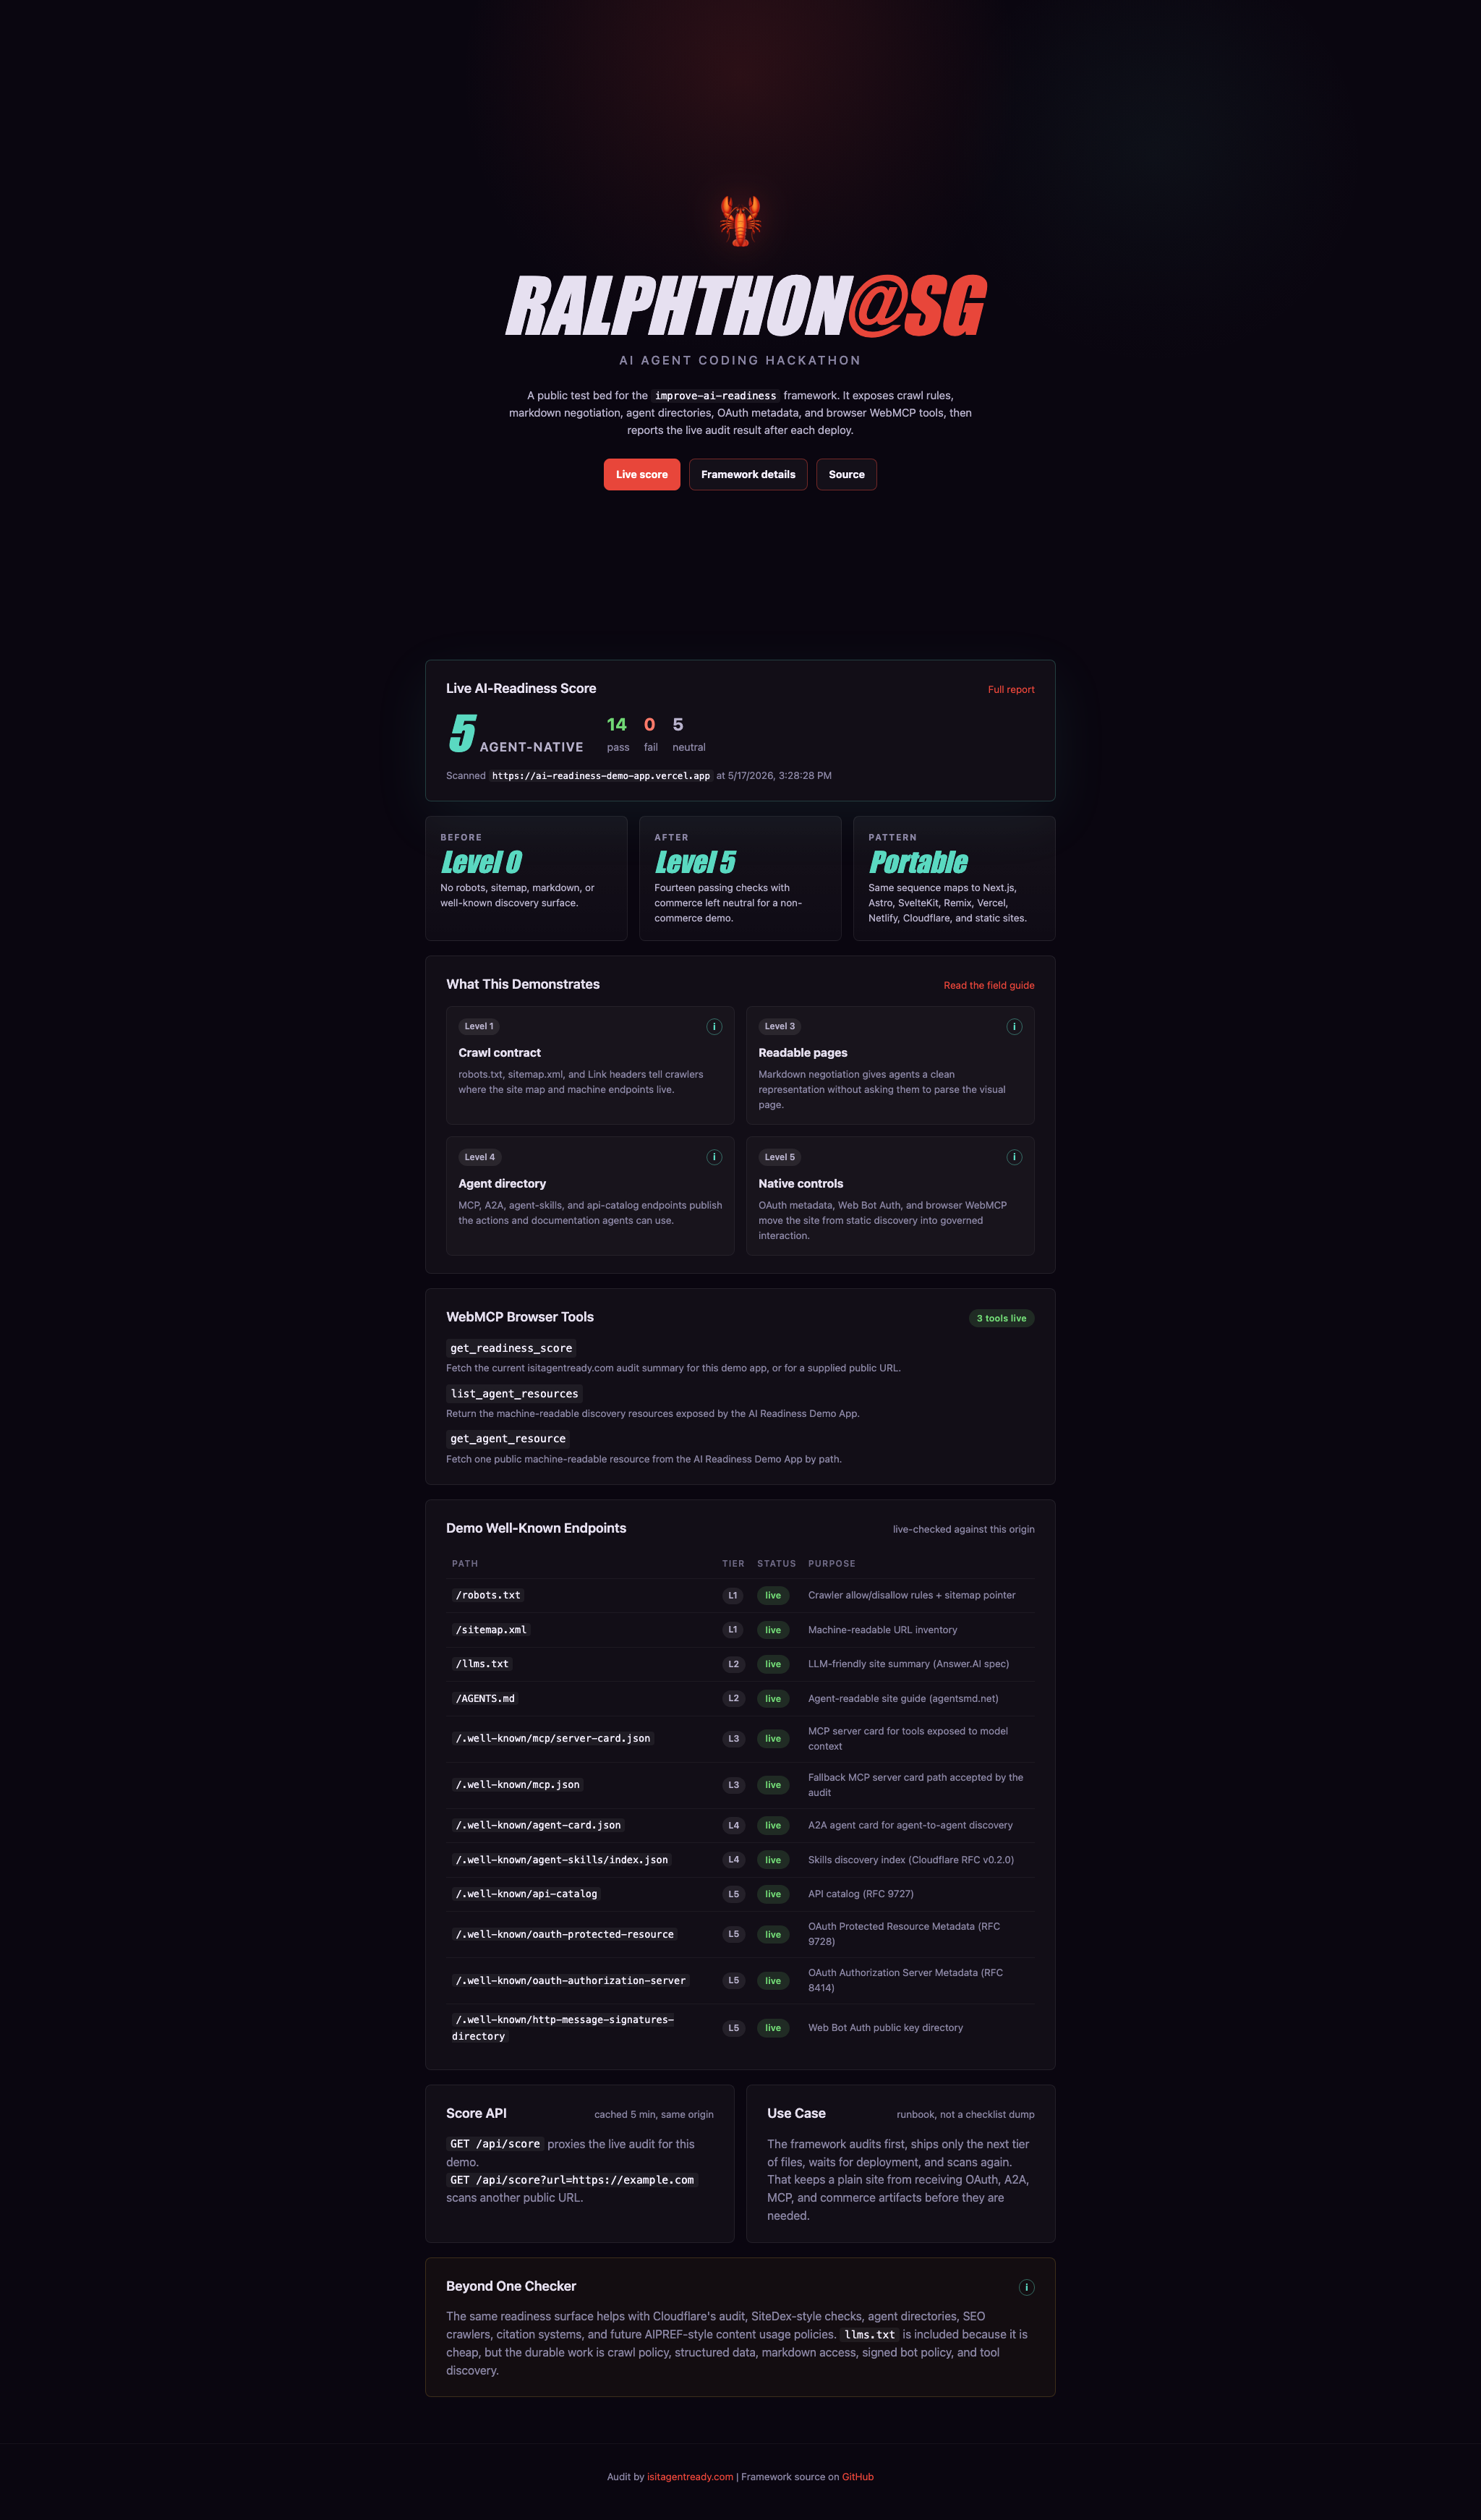
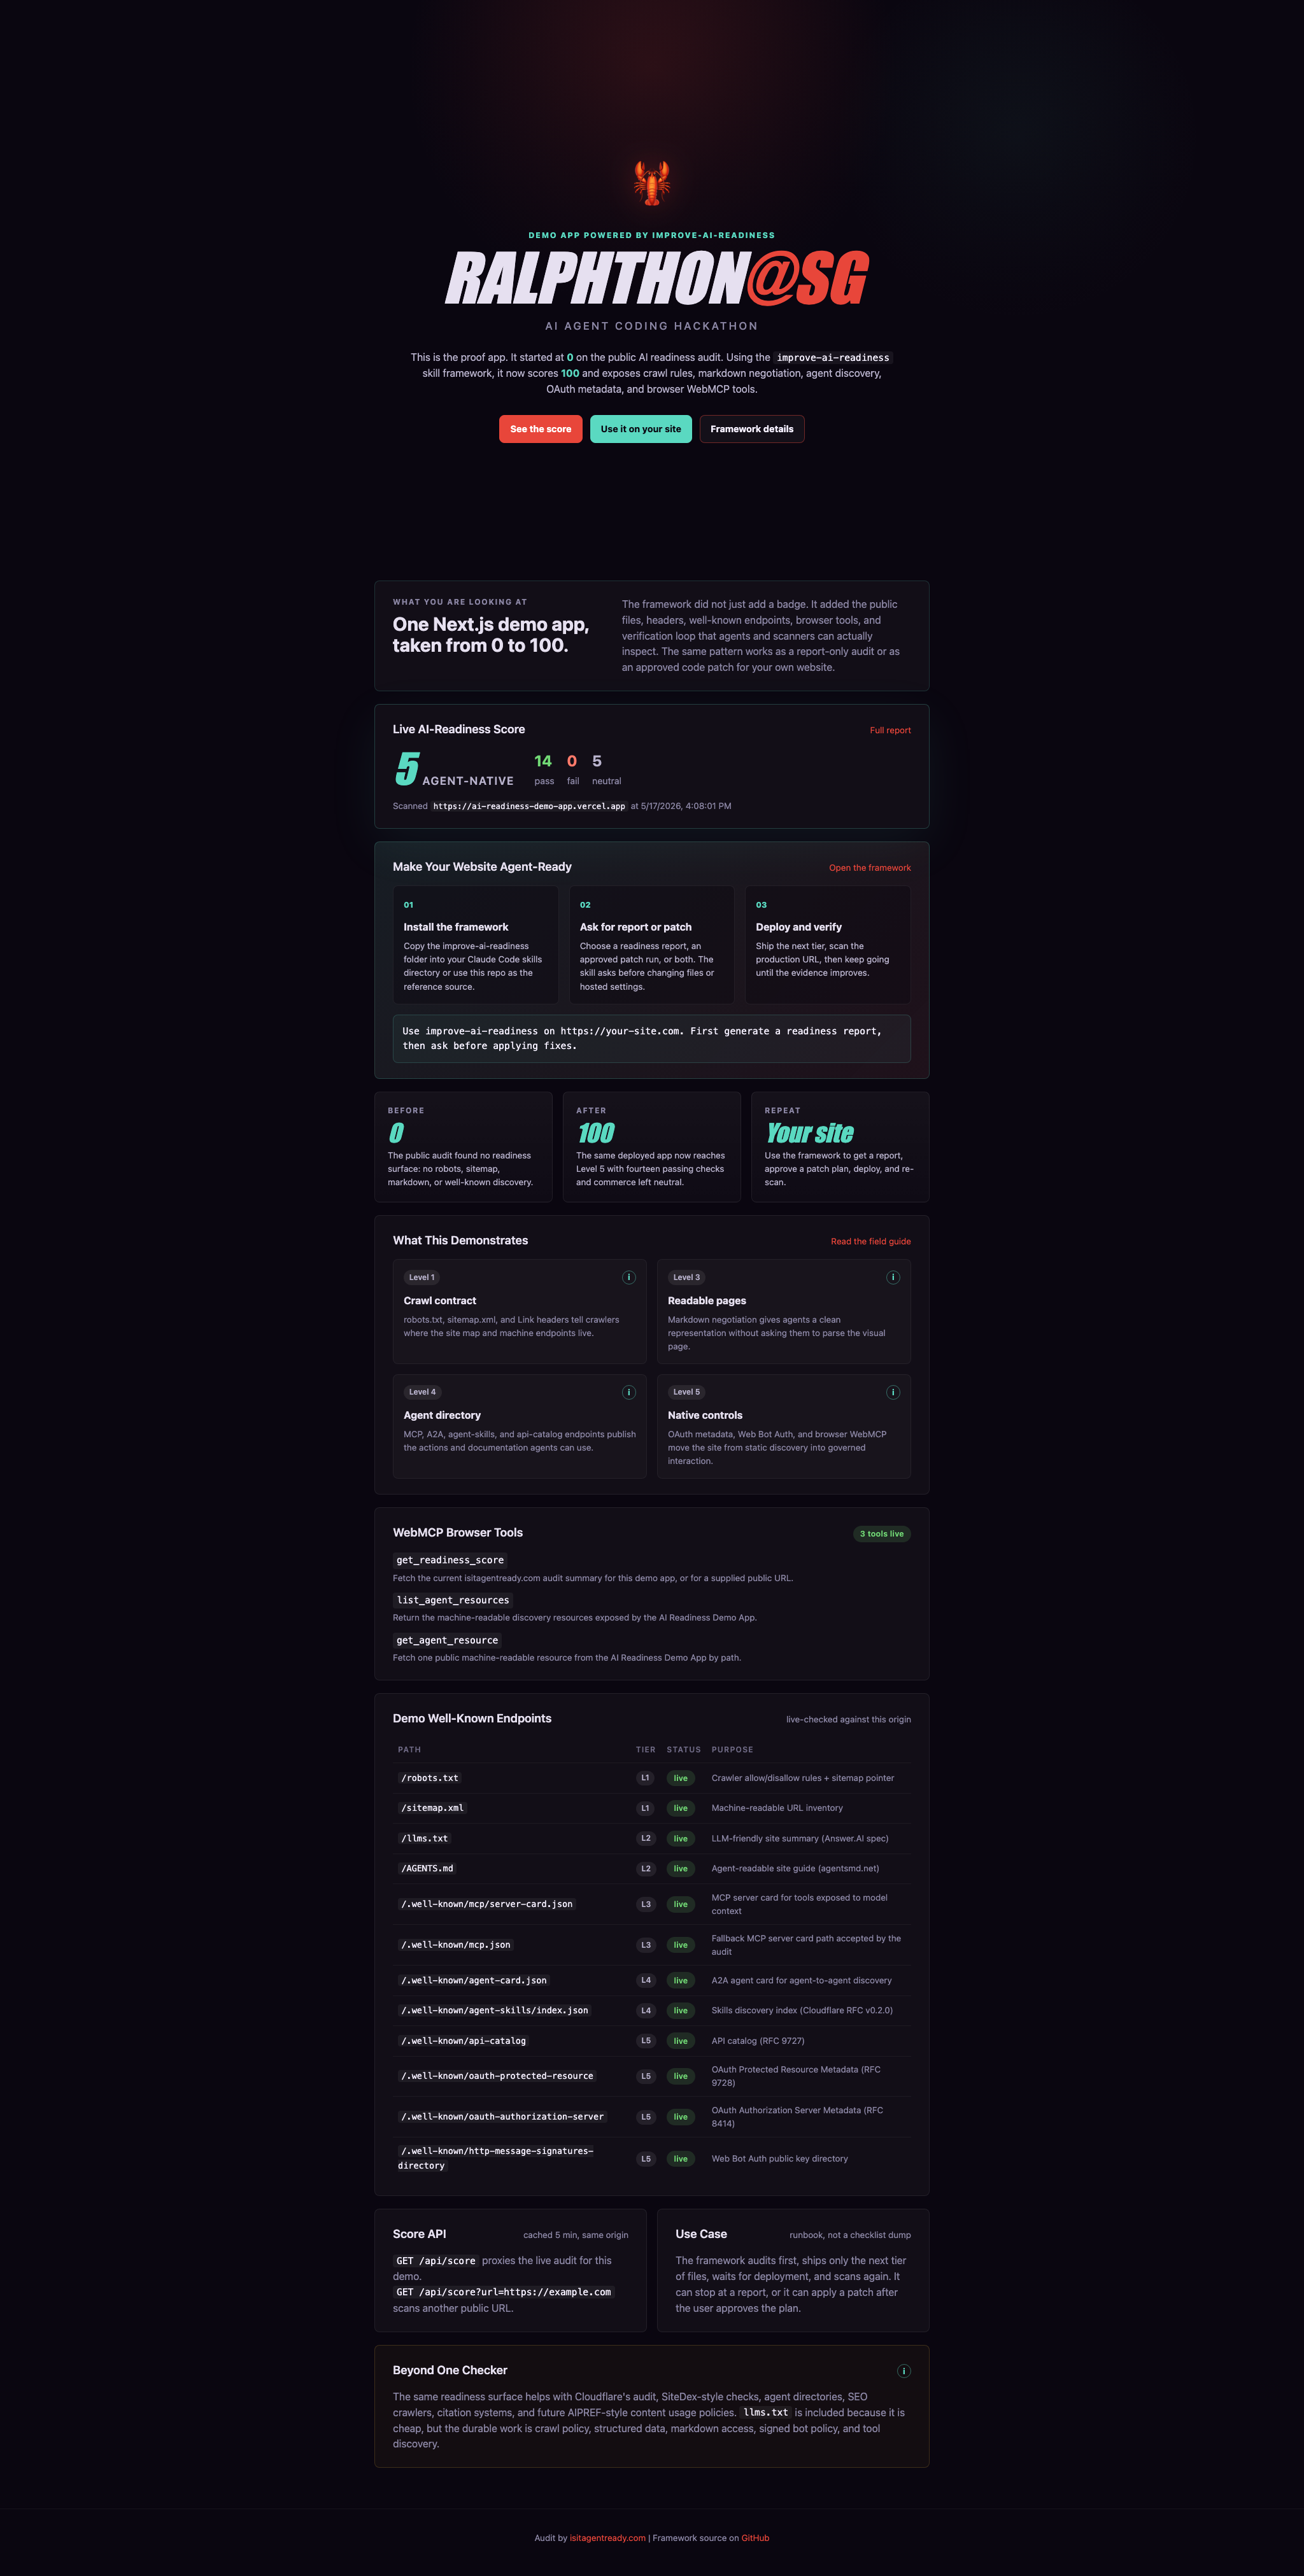
feat: clarify demo app conversion path

Changed region(s): [[0.2812, 0.062, 0.6875, 0.961], [0.4688, 0.217, 0.6875, 0.279], [0.6562, 0.589, 0.6875, 0.62]]

diff --git a/example-web-app/styles/globals.css b/example-web-app/styles/globals.css
@@ -50,6 +50,15 @@ a:hover {
   filter: drop-shadow(0 0 24px rgba(232, 70, 58, 0.35));
 }
 
+.hero-kicker {
+  margin-bottom: 0.75rem;
+  color: #5ad9c1;
+  font-size: 0.78rem;
+  font-weight: 800;
+  letter-spacing: 0.14em;
+  text-transform: uppercase;
+}
+
 .title {
   font-family: 'Impact', 'Arial Black', system-ui, sans-serif;
   font-size: 6.4rem;
@@ -75,9 +84,13 @@ a:hover {
 }
 
 .hero-blurb {
-  max-width: 640px;
+  max-width: 760px;
   color: #b8b2cc;
-  font-size: 0.95rem;
+  font-size: 1rem;
+}
+
+.hero-blurb strong {
+  color: #5ad9c1;
 }
 
 .hero-actions {
@@ -113,6 +126,12 @@ a:hover {
   color: #ffffff;
 }
 
+.button--primary-alt {
+  background: #5ad9c1;
+  border-color: #5ad9c1;
+  color: #0a0610;
+}
+
 .content {
   max-width: 920px;
   margin: 0 auto;
@@ -136,6 +155,20 @@ a:hover {
 .card--accent {
   border-color: rgba(90, 217, 193, 0.24);
   box-shadow: 0 24px 80px rgba(90, 217, 193, 0.08);
+}
+
+.intro-card {
+  display: grid;
+  grid-template-columns: 0.85fr 1.15fr;
+  gap: 1.5rem;
+  align-items: start;
+  border-color: rgba(90, 217, 193, 0.18);
+}
+
+.intro-card h2 {
+  margin-top: 0.45rem;
+  font-size: 1.85rem;
+  line-height: 1.12;
 }
 
 .card-header {
@@ -408,6 +441,60 @@ a:hover {
   color: #b8b2cc;
 }
 
+.cta-card {
+  background:
+    linear-gradient(135deg, rgba(90, 217, 193, 0.08), rgba(232, 70, 58, 0.06)),
+    rgba(255, 255, 255, 0.03);
+  border-color: rgba(90, 217, 193, 0.22);
+}
+
+.cta-steps {
+  display: grid;
+  grid-template-columns: repeat(3, minmax(0, 1fr));
+  gap: 1rem;
+}
+
+.cta-step {
+  padding: 1rem;
+  min-height: 10.5rem;
+  border: 1px solid rgba(255, 255, 255, 0.07);
+  border-radius: 8px;
+  background: rgba(10, 6, 16, 0.45);
+}
+
+.cta-step span {
+  display: inline-flex;
+  margin-bottom: 0.75rem;
+  color: #5ad9c1;
+  font-size: 0.78rem;
+  font-weight: 800;
+}
+
+.cta-step h3 {
+  margin-bottom: 0.45rem;
+  font-size: 1rem;
+}
+
+.cta-step p {
+  color: #b8b2cc;
+  font-size: 0.86rem;
+}
+
+.prompt-strip {
+  margin-top: 1rem;
+  padding: 0.9rem;
+  border: 1px solid rgba(90, 217, 193, 0.2);
+  border-radius: 8px;
+  background: rgba(90, 217, 193, 0.05);
+}
+
+.prompt-strip code {
+  display: block;
+  background: transparent;
+  padding: 0;
+  white-space: normal;
+}
+
 .pill {
   display: inline-block;
   padding: 0.2rem 0.7rem;
@@ -530,9 +617,11 @@ a:hover {
 
   .journey-grid,
   .split-grid,
+  .cta-steps,
   .layer-grid,
   .research-grid,
-  .statement-grid {
+  .statement-grid,
+  .intro-card {
     grid-template-columns: 1fr;
   }
 

diff --git a/example-web-app/pages/index.js b/example-web-app/pages/index.js
@@ -99,14 +99,32 @@ const STACK_LAYERS = [
     name: 'Native controls',
     status: 'Level 5',
     text: 'OAuth metadata, Web Bot Auth, and browser WebMCP move the site from static discovery into governed interaction.',
-    tip: 'Do not fake commerce or payment protocols on non-commerce sites. The checker treats them as neutral.',
+    tip: 'Do not add commerce or payment protocols on non-commerce sites. The checker treats them as neutral.',
   },
 ];
 
 const JOURNEY = [
-  ['Before', 'Level 0', 'No robots, sitemap, markdown, or well-known discovery surface.'],
-  ['After', 'Level 5', 'Fourteen passing checks with commerce left neutral for a non-commerce demo.'],
-  ['Pattern', 'Portable', 'Same sequence maps to Next.js, Astro, SvelteKit, Remix, Vercel, Netlify, Cloudflare, and static sites.'],
+  ['Before', '0', 'The public audit found no readiness surface: no robots, sitemap, markdown, or well-known discovery.'],
+  ['After', '100', 'The same deployed app now reaches Level 5 with fourteen passing checks and commerce left neutral.'],
+  ['Repeat', 'Your site', 'Use the framework to get a report, approve a patch plan, deploy, and re-scan.'],
+];
+
+const CTA_STEPS = [
+  {
+    number: '01',
+    title: 'Install the framework',
+    text: 'Copy the improve-ai-readiness folder into your Claude Code skills directory or use this repo as the reference source.',
+  },
+  {
+    number: '02',
+    title: 'Ask for report or patch',
+    text: 'Choose a readiness report, an approved patch run, or both. The skill asks before changing files or hosted settings.',
+  },
+  {
+    number: '03',
+    title: 'Deploy and verify',
+    text: 'Ship the next tier, scan the production URL, then keep going until the evidence improves.',
+  },
 ];
 
 function matchesExpectedType(contentType, expects) {
@@ -243,40 +261,55 @@ export default function Home() {
         <title>Ralphthon@SG | AI Readiness Demo</title>
         <meta
           name="description"
-          content="Live test bed showing how a public website moves from Level 0 to Level 5 on agent readiness checks."
+          content="Demo app showing how the improve-ai-readiness framework moved a public website from 0 to 100 on agent readiness checks."
         />
       </Head>
 
       <header className="hero">
         <div className="hero-mascot" aria-hidden="true">🦞</div>
+        <p className="hero-kicker">Demo app powered by improve-ai-readiness</p>
         <h1 className="title">
           RALPHTHON<span className="title-accent">@SG</span>
         </h1>
         <p className="subtitle">AI Agent Coding Hackathon</p>
         <p className="hero-blurb">
-          A public test bed for the <code>improve-ai-readiness</code> framework. It exposes
-          crawl rules, markdown negotiation, agent directories, OAuth metadata, and browser
-          WebMCP tools, then reports the live audit result after each deploy.
+          This is the proof app. It started at <strong>0</strong> on the public AI readiness
+          audit. Using the <code>improve-ai-readiness</code> skill framework, it now scores{' '}
+          <strong>100</strong> and exposes crawl rules, markdown negotiation, agent discovery,
+          OAuth metadata, and browser WebMCP tools.
         </p>
         <nav className="hero-actions" aria-label="Demo links">
           <a className="button button--primary" href="#live-score">
-            Live score
-          </a>
-          <a className="button" href="/details">
-            Framework details
+            See the score
           </a>
           <a
-            className="button"
+            className="button button--primary-alt"
             href="https://github.com/mynk-s-rwt/improve-ai-readiness"
             target="_blank"
             rel="noreferrer"
           >
-            Source
+            Use it on your site
+          </a>
+          <a className="button" href="/details">
+            Framework details
           </a>
         </nav>
       </header>
 
       <main className="content">
+        <section className="card intro-card">
+          <div>
+            <span className="eyebrow">What you are looking at</span>
+            <h2>One Next.js demo app, taken from 0 to 100.</h2>
+          </div>
+          <p className="muted">
+            The framework did not just add a badge. It added the public files, headers,
+            well-known endpoints, browser tools, and verification loop that agents and scanners
+            can actually inspect. The same pattern works as a report-only audit or as an approved
+            code patch for your own website.
+          </p>
+        </section>
+
         <section className="card card--accent" id="live-score">
           <div className="card-header">
             <h2>Live AI-Readiness Score</h2>
@@ -348,6 +381,35 @@ export default function Home() {
               </p>
             </>
           )}
+        </section>
+
+        <section className="card cta-card">
+          <div className="card-header">
+            <h2>Make Your Website Agent-Ready</h2>
+            <a
+              className="card-link"
+              href="https://github.com/mynk-s-rwt/improve-ai-readiness"
+              target="_blank"
+              rel="noreferrer"
+            >
+              Open the framework
+            </a>
+          </div>
+          <div className="cta-steps">
+            {CTA_STEPS.map((step) => (
+              <article className="cta-step" key={step.number}>
+                <span>{step.number}</span>
+                <h3>{step.title}</h3>
+                <p>{step.text}</p>
+              </article>
+            ))}
+          </div>
+          <div className="prompt-strip">
+            <code>
+              Use improve-ai-readiness on https://your-site.com. First generate a readiness
+              report, then ask before applying fixes.
+            </code>
+          </div>
         </section>
 
         <section className="journey-grid" aria-label="Before and after summary">
@@ -468,8 +530,8 @@ export default function Home() {
             </div>
             <p className="muted">
               The framework audits first, ships only the next tier of files, waits for deployment,
-              and scans again. That keeps a plain site from receiving OAuth, A2A, MCP, and commerce
-              artifacts before they are needed.
+              and scans again. It can stop at a report, or it can apply a patch after the user
+              approves the plan.
             </p>
           </article>
         </section>

diff --git a/improve-ai-readiness/SKILL.md b/improve-ai-readiness/SKILL.md
@@ -29,21 +29,23 @@ Start in survey mode. Do not edit files until the user approves a plan, unless t
 
 1. Read `GOTCHAS.md`, then `references/index.md`.
 2. Detect the local platform with `scripts/pick-platform.sh .` when a repo is available.
-3. Ask for missing setup values with `AskUserQuestion` when available. Otherwise ask concise numbered questions.
+3. Ask for missing setup values and delivery mode with `AskUserQuestion` when available. Otherwise ask concise numbered questions.
 4. Run available audits against the public production URL. Use `scripts/audit.sh "$SITE_URL"` for the Cloudflare scorecard, then do local checks for universal readiness.
-5. Present a short plan before edits:
+5. If the user chose report mode, write the report and stop unless the user asks to continue.
+6. Present a short plan before edits:
    - current evidence
    - recommended track
    - files or hosted settings to change
    - risks and placeholders
    - exact approval question: `Proceed with this patch?`
-6. After approval, patch only the agreed scope. Re-audit after deploy.
+7. After approval, patch only the agreed scope. Re-audit after deploy.
 
 ## Required Questions
 
 Gather these values before planning:
 
 - public production URL
+- delivery mode: readiness report, approved patch run, or report then patch
 - target outcome: universal baseline, specific scanner score, or `isitagentready.com` level
 - repo scope: local code changes, hosted-platform instructions, or both
 - platform and host: detect when possible, confirm if uncertain
@@ -54,8 +56,14 @@ Gather these values before planning:
 When `AskUserQuestion` is available, ask no more than three structured questions at once:
 
 - outcome: `Universal baseline`, `Next scorecard level`, `Specific target`
-- scope: `Code patch`, `Hosted guidance`, `Both`
+- delivery: `Report only`, `Patch after approval`, `Report then patch`
 - capability profile: `Content site`, `App/API`, `Commerce`
+
+## Delivery Modes
+
+- Report only: audit the production URL and local repo, then return prioritized findings, estimated effort, platform notes, and exact next actions. Do not edit files.
+- Patch after approval: audit, propose the patch plan, ask `Proceed with this patch?`, then edit only the approved files or produce hosted-platform instructions.
+- Report then patch: produce the report first, ask which recommendations to apply, then follow patch-after-approval.
 
 ## Tracks
 

diff --git a/README.md b/README.md
@@ -30,7 +30,8 @@ Then open Claude Code in the target website repo and ask for the next tier:
 
 ```text
 Use improve-ai-readiness on https://example.com.
-Detect the platform, run the public audit, and patch only the next level.
+Detect the platform, run the public audit, and first generate a readiness report.
+After the report, ask before patching only the next level.
 Target Level 4 unless the scan shows a smaller nextLevel.
 Do not add commerce protocols unless this site is commerce.
 ```
@@ -40,10 +41,11 @@ For a known stack, give Claude Code the platform up front:
 ```text
 Use improve-ai-readiness for this Next.js App Router site.
 Production URL: https://example.com
-Raise it from the current isitagentready.com level to the next passing level.
+Generate a readiness report, then ask before raising it from the current
+isitagentready.com level to the next passing level.
 ```
 
-The skill starts at `improve-ai-readiness/SKILL.md`, loads `GOTCHAS.md`, detects the platform, audits the public URL, reads the matching level reference, then applies the smallest patch that can pass the next level. After deployment, run the audit again and continue one level at a time.
+The entry point is `improve-ai-readiness/SKILL.md`. It loads `GOTCHAS.md`, detects the platform, audits the public URL, reads the matching level reference, then either writes a report or asks before applying the smallest patch that can pass the next level. After deployment, run the audit again and continue one level at a time.
 
 You can also run the scripts directly from this repo:
 